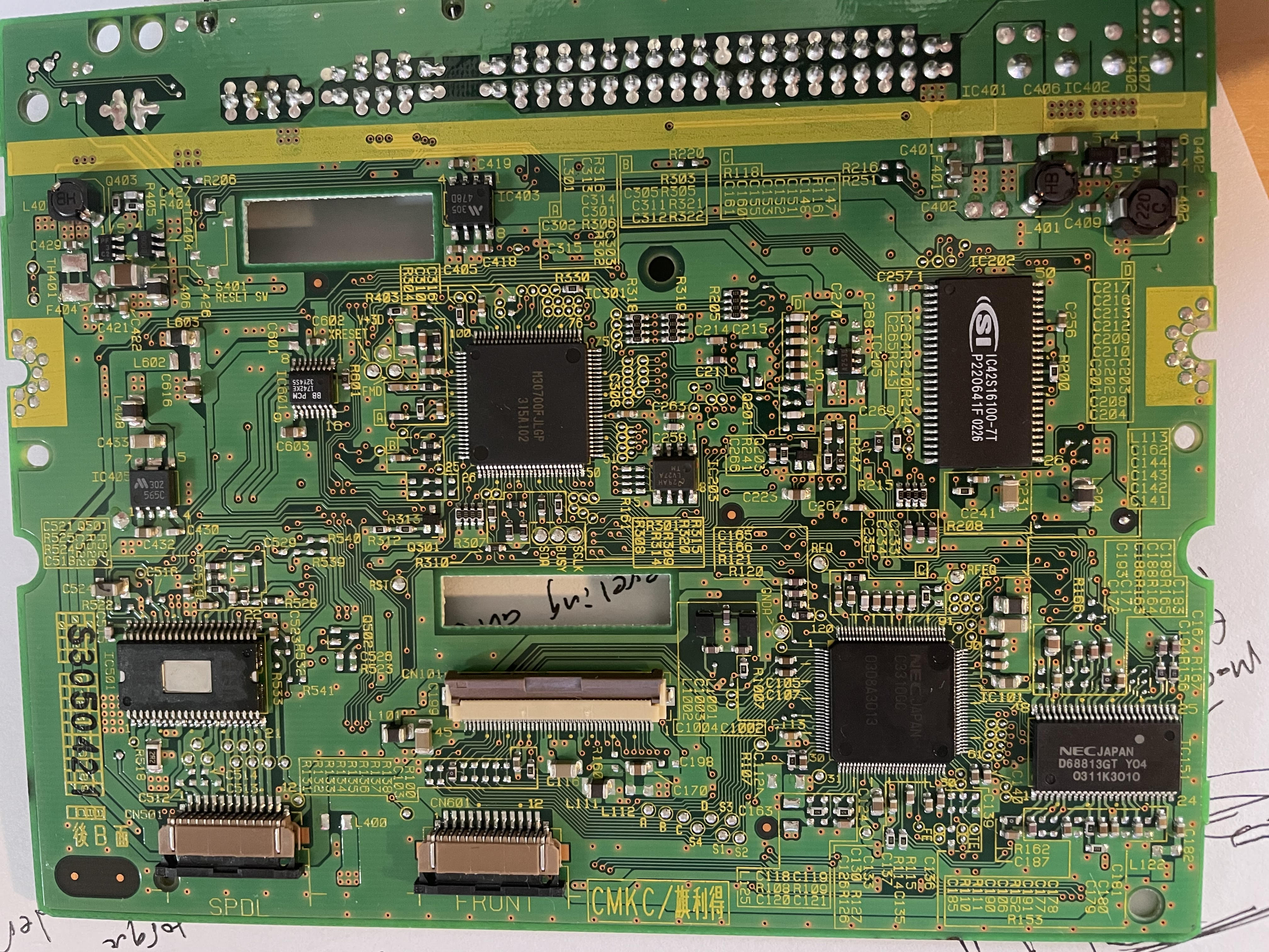
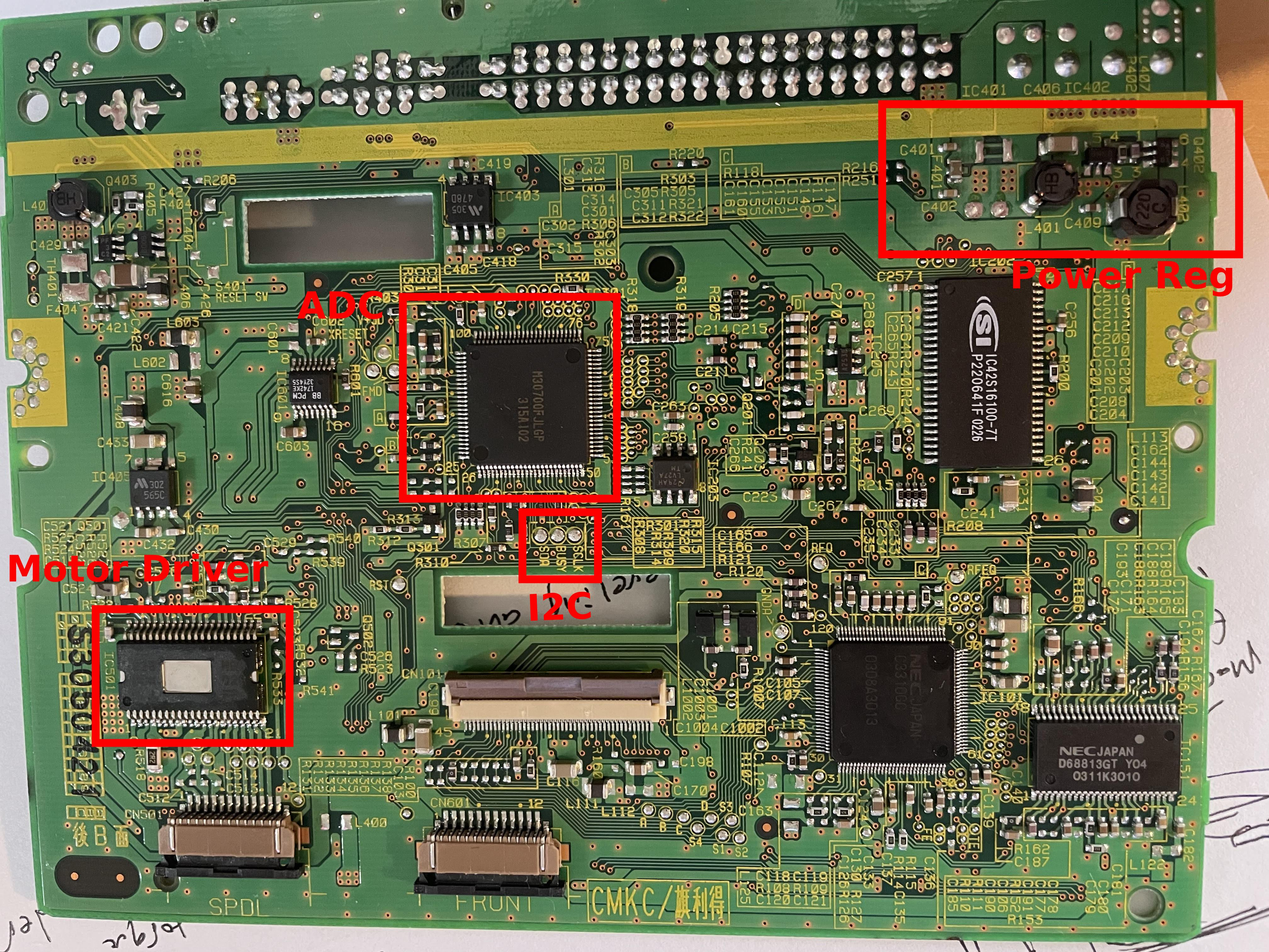
improved pictures and post

Changed region(s): [[0.2188, 0.2798, 0.5, 0.6528], [0.6875, 0.0933, 1.0, 0.3108], [0.0, 0.5595, 0.25, 0.8082]]

diff --git a/HardwareHackingDVDDrives.md b/HardwareHackingDVDDrives.md
@@ -2,16 +2,19 @@
 
 <h1>Hitachi Hard drive Pictures</h1>
 <center>
+Hitachi Front
 <img src = "./assets/hitachi.jpg">
+Hitachi Back
 <img src = "./assets/hitachi2.jpg">
 </center>
 <h2>Pioneer DVD Drive Pictures</h2>
 <center>
-<img src = "./assets/pione.jpg">
+Pioneer Front
 <img src = "./assets/pione2.jpg">
+Pioneer Back 
+<img src = "./assets/pione.jpg">
 </center>
-
-Both boards use a PATA/IDE interface to the motherboard of the iMac this is what the massive 40-pin connector is to each board. They both also recieve 12v(yellow wire) and 5v(red wire) directly from the power supply.
+Both boards use a <a href="http://wfcache.advantech.com/www/embcore/pdf/SQFlash/Parallel%20ATA%20Interface%20Reference%20Design%20Guide_V0%201.pdf">PATA/IDE</a> interface to the motherboard of the iMac this is what the massive 40-pin connector is to each board. They both also recieve 12v(yellow wire) and 5v(red wire) directly from the power supply.
 
 After extensive searching, finding specific datasheets for the boards themselves or even the individual MPUs proved unfruitful.
 Here are some of the links:
@@ -19,4 +22,19 @@ Here are some of the links:
   <li><a href="https://www.scribd.com/doc/204340055/3-Pioneer">Block Diagram of a Similar Pioneer DVD drive</a> </li>
   <li><a href="https://www.pioneerelectronics.com/PUSA/Professional/Computer-Drives/DVR-105+&+DVR-A05"> Pioneer Electronics page on the DVR</a> </li>
   <li><a href="https://usermanual.wiki/Document/DVR3100SRRV2843.1505009730/view"> Detailed User Manual of Similar DVR with a MPU pinout schematic</a> </li>
+  <li><a href="https://www.amazon.co.uk/IC35L060AVV207-0-08K2592-H69284_-13G0222-Hitachi/dp/B00MAN70LC">Some random info on the Hitachi</a> </li>
 </ul>
+
+Looking at the underside of the Pioneer board the immediate stand out is the i2c pads that are exposed. It seems like they are connected to the main mpu (on the front side of the board) via traces. Looking up the chip it might be an analog to digital converter -- No data sheets for this one could be found, but similar chips that share the M30XXXXX tag were labelled as analog to digital converters. Likely meaning that the other chip on the back here is some kind of decoder for the DVD input (if that process is not done by the main MPU on the front). Connecting a logic analyzer to the i2c ports the 'ACK' flag response from the peripheral device. It's a strange test pad for the i2c between these two is open seeing as there arent any other obvious test pads on the entire board...
+
+The logic analyzer output looks like this: 
+<img src = "./assets/Logic.png">
+
+Not really sure what to do with exposed i2c pads, connecting it to a Teensy 3.5 and writing some bytes ('0' and then looped through random characters) to the line didnt really result in anything (hoping to get some of the motors to move). 
+
+The Hitachi board has exposed test pads which is much more promising... no datasheets could be found,however, which makes it difficult to find which pins are for which pads. It does not appear to have the same layout as other common 14 pin JTAG configurations as the ground pad does not match. With a JTAG Debugger/scanner interface this could be a more fruitful avenue to get code execution on the board.
+
+
+The other obvious potential vector for attacking the boards is throught the PATA ports, looking at the pinout this may be difficult as they do not appear to connect to any programmable communication busses for the MPU. 
+
+Finally, the other route is to directly dump and reflash the flash chip on the board- on the hitachi it is very obvious the labelled one is the flash memory. This risks bricking the device and rendering it unusable, but if there is no security measures in place then simply connecting a memory programmer to this could work. 
